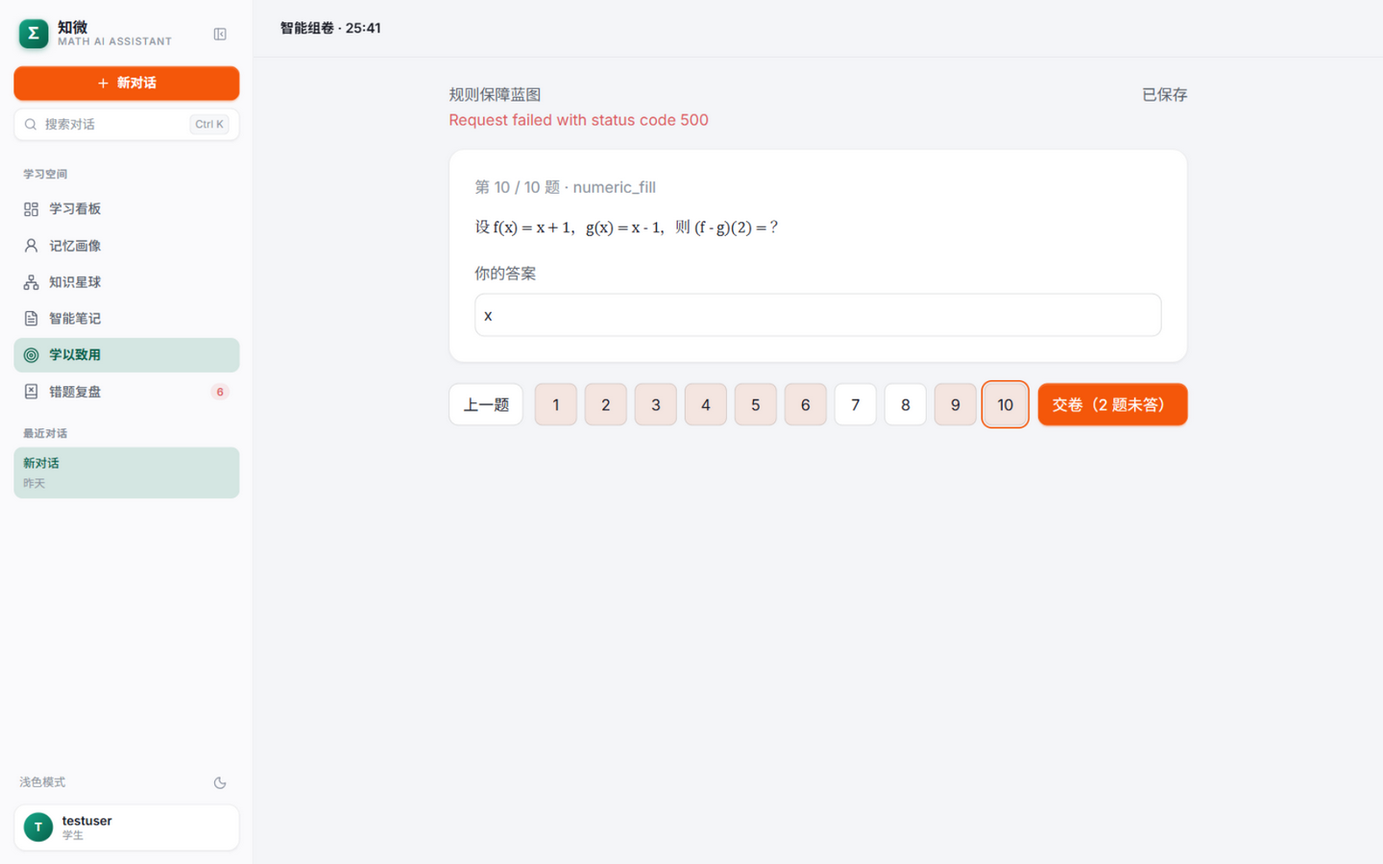
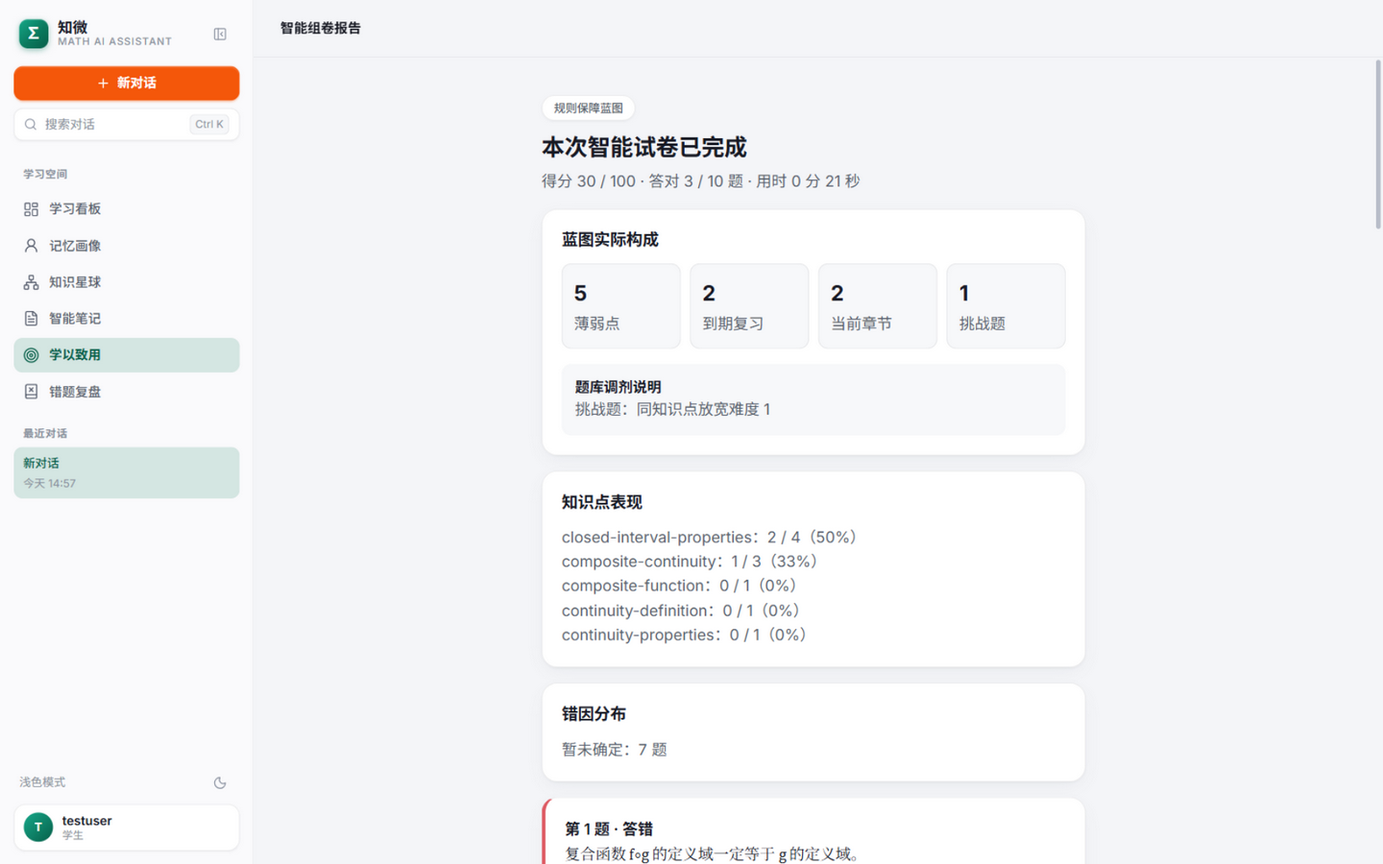
feat(design-v4) P4: 练习/考试知识范围改单元→知识点两级选择(共组件 KnowledgeRangePicker,exam options 补 parent_id/level)

diff --git a/frontend/src/views/PracticeSetupView.vue b/frontend/src/views/PracticeSetupView.vue
@@ -4,6 +4,7 @@ import { useRoute, useRouter } from 'vue-router'
 import { ArrowLeft } from 'lucide-vue-next'
 import AppShell from '@/components/shell/AppShell.vue'
 import BaseButton from '@/components/ui/BaseButton.vue'
+import KnowledgeRangePicker from '@/components/common/KnowledgeRangePicker.vue'
 import { usePracticeStore } from '@/stores/practiceStore'
 const route=useRoute(),router=useRouter(), store=usePracticeStore()
 const canStart=computed(()=>store.options && (store.draft.chapter_ids.length || store.draft.knowledge_point_codes.length))
@@ -38,5 +39,5 @@ onMounted(async()=>{
 })
 async function begin(){await store.create(); router.push(`/apply/practice/sessions/${store.session.session_id}`)}
 </script>
-<template><AppShell><template #topbar-title>专项练习</template><main class="setup"><button class="back" @click="router.push('/apply')"><ArrowLeft :size="15" :stroke-width="1.75" />返回学以致用</button><h1 class="t-1">专项练习</h1><p>题库直出，不使用 AI。请选择要巩固的知识范围。</p><p v-if="store.error && store.errorKind==='load'" class="error" role="alert">题库信息加载失败：{{store.error}}。请确认后端服务已启动后重试。</p><section v-if="store.options" class="panel card card-pad"><h2 class="t-2">范围</h2><label>章节</label><div class="checks"><label v-for="c in store.options.chapters" :key="c.id"><input v-model="store.draft.chapter_ids" type="checkbox" :value="c.id">{{c.name}}</label></div><label>知识点</label><div class="checks"><label v-for="p in store.options.knowledge_points" :key="p.code"><input v-model="store.draft.knowledge_point_codes" type="checkbox" :value="p.code">{{p.name}}</label></div><h2 class="t-2">难度与题型</h2><select v-model="store.draft.difficulty_band"><option :value="null">均衡难度</option><option :value="[1,2]">基础</option><option :value="[2,3]">适中</option><option :value="[4,5]">提升</option></select><div class="checks"><label v-for="t in store.options.question_types" :key="t.value"><input v-model="store.draft.question_types" type="checkbox" :value="t.value" :disabled="!t.available">{{t.value}}（{{t.available}}）</label></div><label>题量 <select v-model.number="store.draft.question_count"><option v-for="n in [5,10,15,20]" :key="n" :value="n">{{n}} 题</option></select></label><h2 class="t-2">练习方式</h2><div class="segments" role="radiogroup" aria-label="练习方式"><label v-for="opt in [{value:'sequential',text:'顺序'},{value:'random',text:'随机'}]" :key="opt.value"><input v-model="store.draft.order_mode" type="radio" name="order_mode" :value="opt.value">{{opt.text}}</label></div><p class="hint-line">{{orderHint}}</p><h2 class="t-2">反馈方式</h2><div class="segments" role="radiogroup" aria-label="反馈方式"><label v-for="opt in [{value:'immediate',text:'即时'},{value:'adaptive',text:'自适应'},{value:'deferred',text:'延后'}]" :key="opt.value"><input v-model="store.draft.behavior" type="radio" name="behavior" :value="opt.value">{{opt.text}}</label></div><p class="hint-line">{{behaviorHint}}</p><p v-if="store.error && store.errorKind==='create'" class="error" role="alert">创建练习失败：{{store.error}}。可尝试减少题量或扩大所选知识范围。</p><div class="summary" aria-live="polite">共 {{store.draft.question_count}} 题 · 预计约 {{estimatedMinutes}} 分钟</div><footer><BaseButton variant="primary" size="lg" :disabled="!canStart||store.loading" @click="begin">开始练习</BaseButton></footer></section><p v-else-if="store.loading" role="status">正在加载可用题库…</p></main></AppShell></template>
-<style scoped>.setup{max-width:880px;margin:0 auto;padding:32px 24px 64px}.setup h1{margin:12px 0 6px}.setup>p{color:var(--ink-2)}.back{display:inline-flex;align-items:center;gap:5px;border:0;background:none;color:var(--ink-2);padding:0;font:inherit;font-size:13.5px;font-weight:500;cursor:pointer}.back:hover{color:var(--ink-1)}.panel{margin-top:22px}h2{margin:24px 0 10px}.panel h2:first-child{margin-top:0}.checks{display:flex;flex-wrap:wrap;gap:10px 18px;margin:10px 0 18px}.checks label{color:var(--ink-2);display:inline-flex;align-items:center;gap:7px;min-height:32px}select{min-height:38px;border:1px solid var(--border-strong);border-radius:10px;background:var(--surface);color:var(--ink-1);padding:0 8px;margin:6px 0;font:inherit;transition:border-color .15s ease,box-shadow .15s ease}select:focus-visible{outline:none;border-color:var(--brand);box-shadow:0 0 0 3px var(--brand-soft)}.segments{display:inline-flex;padding:3px;border-radius:10px;border:1px solid var(--border);background:var(--surface);box-shadow:var(--shadow-1)}.segments label{display:inline-flex;align-items:center;min-height:27px;padding:0 14px;border-radius:8px;color:var(--ink-2);font-size:12.5px;font-weight:500;cursor:pointer;transition:background .15s ease,color .15s ease}.segments label:has(input:checked){background:var(--brand-soft-2);color:var(--brand-text);font-weight:600}.segments label:focus-within{outline:2px solid var(--brand);outline-offset:-2px}.segments input{position:absolute;width:1px;height:1px;opacity:0}.hint-line{margin:8px 0 0;color:var(--ink-3);font-size:13px}.summary{margin-top:24px;padding:12px 16px;border-radius:10px;background:var(--accent-soft);color:var(--ink-1);font-variant-numeric:tabular-nums}footer{margin-top:16px}.error{color:var(--rose)!important}@media(max-width:600px){.segments{display:flex;width:100%}.segments label{flex:1;justify-content:center;padding:0 8px}}</style>
+<template><AppShell><template #topbar-title>专项练习</template><main class="setup"><button class="back" @click="router.push('/apply')"><ArrowLeft :size="15" :stroke-width="1.75" />返回学以致用</button><h1 class="t-1">专项练习</h1><p>题库直出，不使用 AI。请选择要巩固的知识范围。</p><p v-if="store.error && store.errorKind==='load'" class="error" role="alert">题库信息加载失败：{{store.error}}。请确认后端服务已启动后重试。</p><section v-if="store.options" class="panel card card-pad"><h2 class="t-2">范围</h2><p class="range-hint">先点开单元，再勾选书本知识点；勾「整单元」可一次选中该单元全部内容。</p><KnowledgeRangePicker class="range" v-model:chapter-ids="store.draft.chapter_ids" v-model:point-codes="store.draft.knowledge_point_codes" :chapters="store.options.chapters" :points="store.options.knowledge_points" /><h2 class="t-2">难度与题型</h2><select v-model="store.draft.difficulty_band"><option :value="null">均衡难度</option><option :value="[1,2]">基础</option><option :value="[2,3]">适中</option><option :value="[4,5]">提升</option></select><div class="checks"><label v-for="t in store.options.question_types" :key="t.value"><input v-model="store.draft.question_types" type="checkbox" :value="t.value" :disabled="!t.available">{{t.value}}（{{t.available}}）</label></div><label>题量 <select v-model.number="store.draft.question_count"><option v-for="n in [5,10,15,20]" :key="n" :value="n">{{n}} 题</option></select></label><h2 class="t-2">练习方式</h2><div class="segments" role="radiogroup" aria-label="练习方式"><label v-for="opt in [{value:'sequential',text:'顺序'},{value:'random',text:'随机'}]" :key="opt.value"><input v-model="store.draft.order_mode" type="radio" name="order_mode" :value="opt.value">{{opt.text}}</label></div><p class="hint-line">{{orderHint}}</p><h2 class="t-2">反馈方式</h2><div class="segments" role="radiogroup" aria-label="反馈方式"><label v-for="opt in [{value:'immediate',text:'即时'},{value:'adaptive',text:'自适应'},{value:'deferred',text:'延后'}]" :key="opt.value"><input v-model="store.draft.behavior" type="radio" name="behavior" :value="opt.value">{{opt.text}}</label></div><p class="hint-line">{{behaviorHint}}</p><p v-if="store.error && store.errorKind==='create'" class="error" role="alert">创建练习失败：{{store.error}}。可尝试减少题量或扩大所选知识范围。</p><div class="summary" aria-live="polite">共 {{store.draft.question_count}} 题 · 预计约 {{estimatedMinutes}} 分钟</div><footer><BaseButton variant="primary" size="lg" :disabled="!canStart||store.loading" @click="begin">开始练习</BaseButton></footer></section><p v-else-if="store.loading" role="status">正在加载可用题库…</p></main></AppShell></template>
+<style scoped>.setup{max-width:880px;margin:0 auto;padding:32px 24px 64px}.setup h1{margin:12px 0 6px}.setup>p{color:var(--ink-2)}.back{display:inline-flex;align-items:center;gap:5px;border:0;background:none;color:var(--ink-2);padding:0;font:inherit;font-size:13.5px;font-weight:500;cursor:pointer}.back:hover{color:var(--ink-1)}.panel{margin-top:22px}h2{margin:24px 0 10px}.panel h2:first-child{margin-top:0}.range-hint{margin:-4px 0 12px;color:var(--ink-3);font-size:13px}.range{margin-bottom:6px}.checks{display:flex;flex-wrap:wrap;gap:10px 18px;margin:10px 0 18px}.checks label{color:var(--ink-2);display:inline-flex;align-items:center;gap:7px;min-height:32px}select{min-height:38px;border:1px solid var(--border-strong);border-radius:10px;background:var(--surface);color:var(--ink-1);padding:0 8px;margin:6px 0;font:inherit;transition:border-color .15s ease,box-shadow .15s ease}select:focus-visible{outline:none;border-color:var(--brand);box-shadow:0 0 0 3px var(--brand-soft)}.segments{display:inline-flex;padding:3px;border-radius:10px;border:1px solid var(--border);background:var(--surface);box-shadow:var(--shadow-1)}.segments label{display:inline-flex;align-items:center;min-height:27px;padding:0 14px;border-radius:8px;color:var(--ink-2);font-size:12.5px;font-weight:500;cursor:pointer;transition:background .15s ease,color .15s ease}.segments label:has(input:checked){background:var(--brand-soft-2);color:var(--brand-text);font-weight:600}.segments label:focus-within{outline:2px solid var(--brand);outline-offset:-2px}.segments input{position:absolute;width:1px;height:1px;opacity:0}.hint-line{margin:8px 0 0;color:var(--ink-3);font-size:13px}.summary{margin-top:24px;padding:12px 16px;border-radius:10px;background:var(--accent-soft);color:var(--ink-1);font-variant-numeric:tabular-nums}footer{margin-top:16px}.error{color:var(--rose)!important}@media(max-width:600px){.segments{display:flex;width:100%}.segments label{flex:1;justify-content:center;padding:0 8px}}</style>

diff --git a/frontend/src/views/ExamSetupView.vue b/frontend/src/views/ExamSetupView.vue
@@ -4,6 +4,7 @@ import { useRouter } from 'vue-router'
 import { ArrowLeft } from 'lucide-vue-next'
 import AppShell from '@/components/shell/AppShell.vue'
 import BaseButton from '@/components/ui/BaseButton.vue'
+import KnowledgeRangePicker from '@/components/common/KnowledgeRangePicker.vue'
 import { useExamStore } from '@/stores/examStore'
 const router = useRouter(), store = useExamStore()
 const labels = { choice: '选择题', judge: '判断题', numeric_fill: '数值填空', expression_fill: '表达式填空' }
@@ -11,5 +12,5 @@ const canStart = computed(() => store.options && (store.config.chapter_ids.lengt
 onMounted(() => store.loadOptions().catch(() => {}))
 async function begin() { await store.create(); router.push(`/apply/exam/sessions/${store.session.session_id}`) }
 </script>
-<template><AppShell><template #topbar-title>自主考试</template><main class="setup"><button class="back" @click="router.push('/apply')"><ArrowLeft :size="15" :stroke-width="1.75" />返回学以致用</button><p class="eyebrow">自主考试</p><h1 class="t-1">按你的目标生成一场考试</h1><p>考试中不显示答案、解析、提示或 AI 辅导，交卷后统一判卷。</p><p v-if="store.error" class="error" role="alert">{{store.error}}</p><section v-if="store.options" class="panel card card-pad"><fieldset><legend class="t-2">知识范围</legend><div class="checks"><label v-for="c in store.options.chapters" :key="c.id"><input v-model="store.config.chapter_ids" type="checkbox" :value="c.id">{{c.name}}</label></div><div class="checks points"><label v-for="p in store.options.knowledge_points" :key="p.code"><input v-model="store.config.knowledge_point_codes" type="checkbox" :value="p.code">{{p.name}}</label></div></fieldset><fieldset><legend class="t-2">难度与时长</legend><div class="row"><label>最低难度<select v-model.number="store.config.difficulty_min"><option v-for="n in 5" :key="n" :value="n">{{n}}</option></select></label><label>最高难度<select v-model.number="store.config.difficulty_max"><option v-for="n in 5" :key="n" :value="n">{{n}}</option></select></label><label>考试时间<select v-model.number="store.config.duration_minutes"><option v-for="n in [30,45,60,90]" :key="n" :value="n">{{n}} 分钟</option></select></label></div></fieldset><fieldset><legend class="t-2">题型数量 <small>共 {{store.questionTotal}} 题</small></legend><div class="type-grid"><label v-for="t in store.options.question_types" :key="t.value"><span>{{labels[t.value]}} <small>可用 {{t.available}}</small></span><input v-model.number="store.config.question_type_counts[t.value]" type="number" inputmode="numeric" min="0" :max="Math.min(30,t.available)"></label></div></fieldset><footer><p v-if="store.questionTotal<5||store.questionTotal>30" class="hint">题量总和需为 5–30 题。</p><BaseButton variant="primary" size="lg" :disabled="!canStart||store.loading" @click="begin">{{store.loading?'正在生成…':'生成考试'}}</BaseButton></footer></section><p v-else-if="store.loading" role="status">正在读取正式题库…</p></main></AppShell></template>
-<style scoped>.setup{max-width:960px;margin:0 auto;padding:32px 24px 72px}.back{display:inline-flex;align-items:center;gap:5px;border:0;background:none;color:var(--ink-2);padding:0;font:inherit;font-size:13.5px;font-weight:500;cursor:pointer}.back:hover{color:var(--ink-1)}.eyebrow{display:inline-flex;align-items:center;height:26px;padding:0 12px;border-radius:var(--r-pill);border:1px solid var(--border);background:var(--surface);font-size:12px;color:var(--ink-2);font-weight:500;box-shadow:var(--shadow-1);margin:10px 0 0}.setup h1{margin:6px 0 8px}.setup>p{color:var(--ink-2)}.panel{margin-top:22px}fieldset{border:0;padding:0;margin:0 0 28px}legend{margin-bottom:12px}legend small,.type-grid small{font-size:13px;color:var(--ink-2);font-weight:400}.checks{display:flex;flex-wrap:wrap;gap:10px 18px}.points{margin-top:14px}.checks label{min-height:44px;display:flex;align-items:center;gap:7px;color:var(--ink-2)}.row,.type-grid{display:grid;grid-template-columns:repeat(3,minmax(0,1fr));gap:16px}.row label,.type-grid label{display:grid;gap:7px;color:var(--ink-2)}select,input[type=number]{box-sizing:border-box;min-height:44px;border:1px solid var(--border-strong);border-radius:10px;background:var(--surface);color:var(--ink-1);padding:0 10px;font:inherit;transition:border-color .15s ease,box-shadow .15s ease}select:focus-visible,input[type=number]:focus-visible{outline:none;border-color:var(--brand);box-shadow:0 0 0 3px var(--brand-soft)}.type-grid{grid-template-columns:repeat(2,minmax(0,1fr))}footer{display:flex;align-items:center;justify-content:space-between;gap:16px}.error{color:var(--rose)!important}.hint{color:var(--ink-2)}@media(max-width:650px){.setup{padding:24px 16px 64px}.row,.type-grid{grid-template-columns:1fr}footer{align-items:stretch;flex-direction:column}}</style>
+<template><AppShell><template #topbar-title>自主考试</template><main class="setup"><button class="back" @click="router.push('/apply')"><ArrowLeft :size="15" :stroke-width="1.75" />返回学以致用</button><p class="eyebrow">自主考试</p><h1 class="t-1">按你的目标生成一场考试</h1><p>考试中不显示答案、解析、提示或 AI 辅导，交卷后统一判卷。</p><p v-if="store.error" class="error" role="alert">{{store.error}}</p><section v-if="store.options" class="panel card card-pad"><fieldset><legend class="t-2">知识范围</legend><p class="range-hint">先点开单元，再勾选书本知识点；勾「整单元」可一次选中该单元全部内容。</p><KnowledgeRangePicker class="range" v-model:chapter-ids="store.config.chapter_ids" v-model:point-codes="store.config.knowledge_point_codes" :chapters="store.options.chapters" :points="store.options.knowledge_points" /></fieldset><fieldset><legend class="t-2">难度与时长</legend><div class="row"><label>最低难度<select v-model.number="store.config.difficulty_min"><option v-for="n in 5" :key="n" :value="n">{{n}}</option></select></label><label>最高难度<select v-model.number="store.config.difficulty_max"><option v-for="n in 5" :key="n" :value="n">{{n}}</option></select></label><label>考试时间<select v-model.number="store.config.duration_minutes"><option v-for="n in [30,45,60,90]" :key="n" :value="n">{{n}} 分钟</option></select></label></div></fieldset><fieldset><legend class="t-2">题型数量 <small>共 {{store.questionTotal}} 题</small></legend><div class="type-grid"><label v-for="t in store.options.question_types" :key="t.value"><span>{{labels[t.value]}} <small>可用 {{t.available}}</small></span><input v-model.number="store.config.question_type_counts[t.value]" type="number" inputmode="numeric" min="0" :max="Math.min(30,t.available)"></label></div></fieldset><footer><p v-if="store.questionTotal<5||store.questionTotal>30" class="hint">题量总和需为 5–30 题。</p><BaseButton variant="primary" size="lg" :disabled="!canStart||store.loading" @click="begin">{{store.loading?'正在生成…':'生成考试'}}</BaseButton></footer></section><p v-else-if="store.loading" role="status">正在读取正式题库…</p></main></AppShell></template>
+<style scoped>.setup{max-width:960px;margin:0 auto;padding:32px 24px 72px}.back{display:inline-flex;align-items:center;gap:5px;border:0;background:none;color:var(--ink-2);padding:0;font:inherit;font-size:13.5px;font-weight:500;cursor:pointer}.back:hover{color:var(--ink-1)}.eyebrow{display:inline-flex;align-items:center;height:26px;padding:0 12px;border-radius:var(--r-pill);border:1px solid var(--border);background:var(--surface);font-size:12px;color:var(--ink-2);font-weight:500;box-shadow:var(--shadow-1);margin:10px 0 0}.setup h1{margin:6px 0 8px}.setup>p{color:var(--ink-2)}.panel{margin-top:22px}fieldset{border:0;padding:0;margin:0 0 28px}legend{margin-bottom:12px}.range-hint{margin:0 0 12px;color:var(--ink-3);font-size:13px}legend small,.type-grid small{font-size:13px;color:var(--ink-2);font-weight:400}.row,.type-grid{display:grid;grid-template-columns:repeat(3,minmax(0,1fr));gap:16px}.row label,.type-grid label{display:grid;gap:7px;color:var(--ink-2)}select,input[type=number]{box-sizing:border-box;min-height:44px;border:1px solid var(--border-strong);border-radius:10px;background:var(--surface);color:var(--ink-1);padding:0 10px;font:inherit;transition:border-color .15s ease,box-shadow .15s ease}select:focus-visible,input[type=number]:focus-visible{outline:none;border-color:var(--brand);box-shadow:0 0 0 3px var(--brand-soft)}.type-grid{grid-template-columns:repeat(2,minmax(0,1fr))}footer{display:flex;align-items:center;justify-content:space-between;gap:16px}.error{color:var(--rose)!important}.hint{color:var(--ink-2)}@media(max-width:650px){.setup{padding:24px 16px 64px}.row,.type-grid{grid-template-columns:1fr}footer{align-items:stretch;flex-direction:column}}</style>

diff --git a/frontend/src/components/common/KnowledgeRangePicker.vue b/frontend/src/components/common/KnowledgeRangePicker.vue
@@ -1,0 +1,113 @@
+<script setup>
+/**
+ * 知识范围选择器:单元 → 点进单元 → 按书本知识点勾选 的两级结构。
+ * 替代把全部知识点平铺一页的做法;提交语义保持 chapter_ids ∪ knowledge_point_codes,
+ * 「整单元」勾选写 chapter_ids,单个知识点勾选写 knowledge_point_codes(后端按并集出题)。
+ */
+import { computed, ref, watch } from 'vue'
+import { ChevronDown, ChevronRight } from 'lucide-vue-next'
+
+const props = defineProps({
+  chapters: { type: Array, default: () => [] },
+  points: { type: Array, default: () => [] },
+  chapterIds: { type: Array, default: () => [] },
+  pointCodes: { type: Array, default: () => [] },
+})
+const emit = defineEmits(['update:chapterIds', 'update:pointCodes'])
+
+const openId = ref('')
+/* 本地副本承接连续点选(props 在父组件重渲染前是旧值,直接叠加会互相覆盖) */
+const localChapterIds = ref([...props.chapterIds])
+const localPointCodes = ref([...props.pointCodes])
+watch(() => props.chapterIds, (v) => { localChapterIds.value = [...(v || [])] })
+watch(() => props.pointCodes, (v) => { localPointCodes.value = [...(v || [])] })
+
+const byId = computed(() => new Map(props.chapters.map((c) => [c.id, c])))
+const pointsByChapter = computed(() => {
+  const map = new Map()
+  for (const p of props.points) {
+    if (!map.has(p.chapter_id)) map.set(p.chapter_id, [])
+    map.get(p.chapter_id).push(p)
+  }
+  return map
+})
+/* 无 parent 信息时退化为平铺:每个章节各自成行 */
+const units = computed(() => {
+  const roots = props.chapters.filter((c) => !c.parent_id || !byId.value.has(c.parent_id))
+  return roots.map((ch) => {
+    const children = props.chapters.filter((c) => c.parent_id === ch.id)
+    const groups = [
+      { chapter: ch, points: pointsByChapter.value.get(ch.id) || [] },
+      ...children.map((c) => ({ chapter: c, points: pointsByChapter.value.get(c.id) || [] })),
+    ].filter((g) => g.points.length)
+    const all = groups.flatMap((g) => g.points)
+    return { chapter: ch, groups, total: all.length, codes: new Set(all.map((p) => p.code)) }
+  })
+})
+
+const isWholeUnit = (u) => localChapterIds.value.includes(u.chapter.id)
+const unitPickedCount = (u) => localPointCodes.value.filter((code) => u.codes.has(code)).length
+function toggleOpen(u) { openId.value = openId.value === u.chapter.id ? '' : u.chapter.id }
+function toggleWhole(u) {
+  localChapterIds.value = localChapterIds.value.includes(u.chapter.id)
+    ? localChapterIds.value.filter((id) => id !== u.chapter.id)
+    : [...localChapterIds.value, u.chapter.id]
+  emit('update:chapterIds', [...localChapterIds.value])
+}
+function togglePoint(code) {
+  localPointCodes.value = localPointCodes.value.includes(code)
+    ? localPointCodes.value.filter((c) => c !== code)
+    : [...localPointCodes.value, code]
+  emit('update:pointCodes', [...localPointCodes.value])
+}
+</script>
+<template>
+  <div class="krange">
+    <article v-for="u in units" :key="u.chapter.id" class="unit" :class="{ open: openId === u.chapter.id, whole: isWholeUnit(u) }">
+      <header class="unit-head" :aria-expanded="openId === u.chapter.id ? 'true' : 'false'" @click="toggleOpen(u)">
+        <ChevronRight v-if="openId !== u.chapter.id" class="chev" :size="16" :stroke-width="1.75" aria-hidden="true" />
+        <ChevronDown v-else class="chev" :size="16" :stroke-width="1.75" aria-hidden="true" />
+        <strong>{{ u.chapter.name }}</strong>
+        <span class="meta">{{ u.total }} 个知识点<template v-if="isWholeUnit(u)"> · 整单元</template><template v-else-if="unitPickedCount(u)"> · 已选 {{ unitPickedCount(u) }}</template></span>
+        <label class="whole" @click.stop>
+          <input type="checkbox" :checked="isWholeUnit(u)" @change="toggleWhole(u)" />
+          <span>整单元</span>
+        </label>
+      </header>
+      <div v-if="openId === u.chapter.id" class="unit-body">
+        <section v-for="g in u.groups" :key="g.chapter.id">
+          <h4 v-if="g.chapter.id !== u.chapter.id">{{ g.chapter.name }}</h4>
+          <div class="chips">
+            <label v-for="p in g.points" :key="p.code" class="chip" :class="{ on: localPointCodes.includes(p.code) }">
+              <input type="checkbox" :checked="localPointCodes.includes(p.code)" @change="togglePoint(p.code)" />
+              <span>{{ p.name }}</span>
+            </label>
+          </div>
+        </section>
+      </div>
+    </article>
+  </div>
+</template>
+<style scoped>
+.krange{display:grid;gap:10px}
+.unit{border:1px solid var(--border);border-radius:12px;background:var(--surface);transition:border-color .15s ease,background .15s ease}
+.unit:hover{background:var(--surface-2)}
+.unit.open{border-color:var(--border-strong);background:var(--surface);box-shadow:var(--shadow-1)}
+.unit.whole{border-color:var(--brand);background:var(--brand-soft)}
+.unit-head{display:flex;align-items:center;gap:10px;min-height:48px;padding:0 14px;cursor:pointer;user-select:none}
+.chev{flex-shrink:0;color:var(--ink-3)}
+.unit-head strong{font-size:14px;font-weight:600;color:var(--ink-1)}
+.meta{color:var(--ink-3);font-size:13px}
+.whole{margin-left:auto;display:inline-flex;align-items:center;gap:6px;padding:4px 10px;border:1px solid var(--border-strong);border-radius:var(--r-pill);font-size:12.5px;font-weight:500;color:var(--ink-2);cursor:pointer;transition:background .15s ease,color .15s ease,border-color .15s ease}
+.whole:hover{color:var(--ink-1);border-color:var(--ink-4)}
+.whole:has(input:checked){background:var(--brand-text);border-color:var(--brand-text);color:var(--surface)}
+.unit-body{padding:4px 14px 14px;border-top:1px solid var(--border)}
+.unit-body section{margin-top:10px}
+.unit-body h4{margin:0 0 8px;font-size:13px;font-weight:600;color:var(--ink-2)}
+.chips{display:grid;grid-template-columns:repeat(2,minmax(0,1fr));gap:8px}
+.chip{display:flex;align-items:center;gap:8px;min-height:38px;padding:7px 10px;border:1px solid var(--border);border-radius:10px;background:var(--surface);cursor:pointer;font-size:13.5px;color:var(--ink-1);transition:background .15s ease,border-color .15s ease}
+.chip:hover{background:var(--surface-2)}
+.chip.on{background:var(--accent-soft);border-color:var(--accent)}
+.chip input{flex-shrink:0;accent-color:var(--accent)}
+@media(max-width:600px){.chips{grid-template-columns:1fr}.unit-head{flex-wrap:wrap;padding:10px 12px}.whole{margin-left:0}}
+</style>

diff --git a/app/services/exam_service.py b/app/services/exam_service.py
@@ -69,7 +69,7 @@ async def exam_options(course_id: str | None = None) -> dict[str, Any]:
         chapters = list((await db.execute(select(Chapter).where(Chapter.version_id == version.id).order_by(Chapter.sort_order))).scalars())
         points = list((await db.execute(select(KnowledgePoint).where(KnowledgePoint.version_id == version.id).order_by(KnowledgePoint.sort_order))).scalars())
         counts = dict((await db.execute(select(Question.question_type, func.count(Question.id)).where(Question.course_id == course.id, Question.version_id == version.id, Question.review_status == "published", Question.exam_eligible.is_(True), Question.auto_grading_eligible.is_(True), Question.grading_mode == "deterministic", Question.question_type.in_(SUPPORTED_TYPES)).group_by(Question.question_type))).all())
-        return {"courses": [{"id": row.id, "name": row.name} for row in courses], "course_id": course.id, "version_id": version.id, "chapters": [{"id": row.id, "name": row.name} for row in chapters], "knowledge_points": [{"code": row.code, "name": row.name, "chapter_id": row.chapter_id} for row in points], "question_types": [{"value": kind, "available": int(counts.get(kind, 0))} for kind in sorted(SUPPORTED_TYPES)]}
+        return {"courses": [{"id": row.id, "name": row.name} for row in courses], "course_id": course.id, "version_id": version.id, "chapters": [{"id": row.id, "name": row.name, "parent_id": row.parent_id, "level": row.level} for row in chapters], "knowledge_points": [{"code": row.code, "name": row.name, "chapter_id": row.chapter_id} for row in points], "question_types": [{"value": kind, "available": int(counts.get(kind, 0))} for kind in sorted(SUPPORTED_TYPES)]}
 
 
 async def create_exam(user_id: str, config: dict[str, Any]) -> dict[str, Any]:
